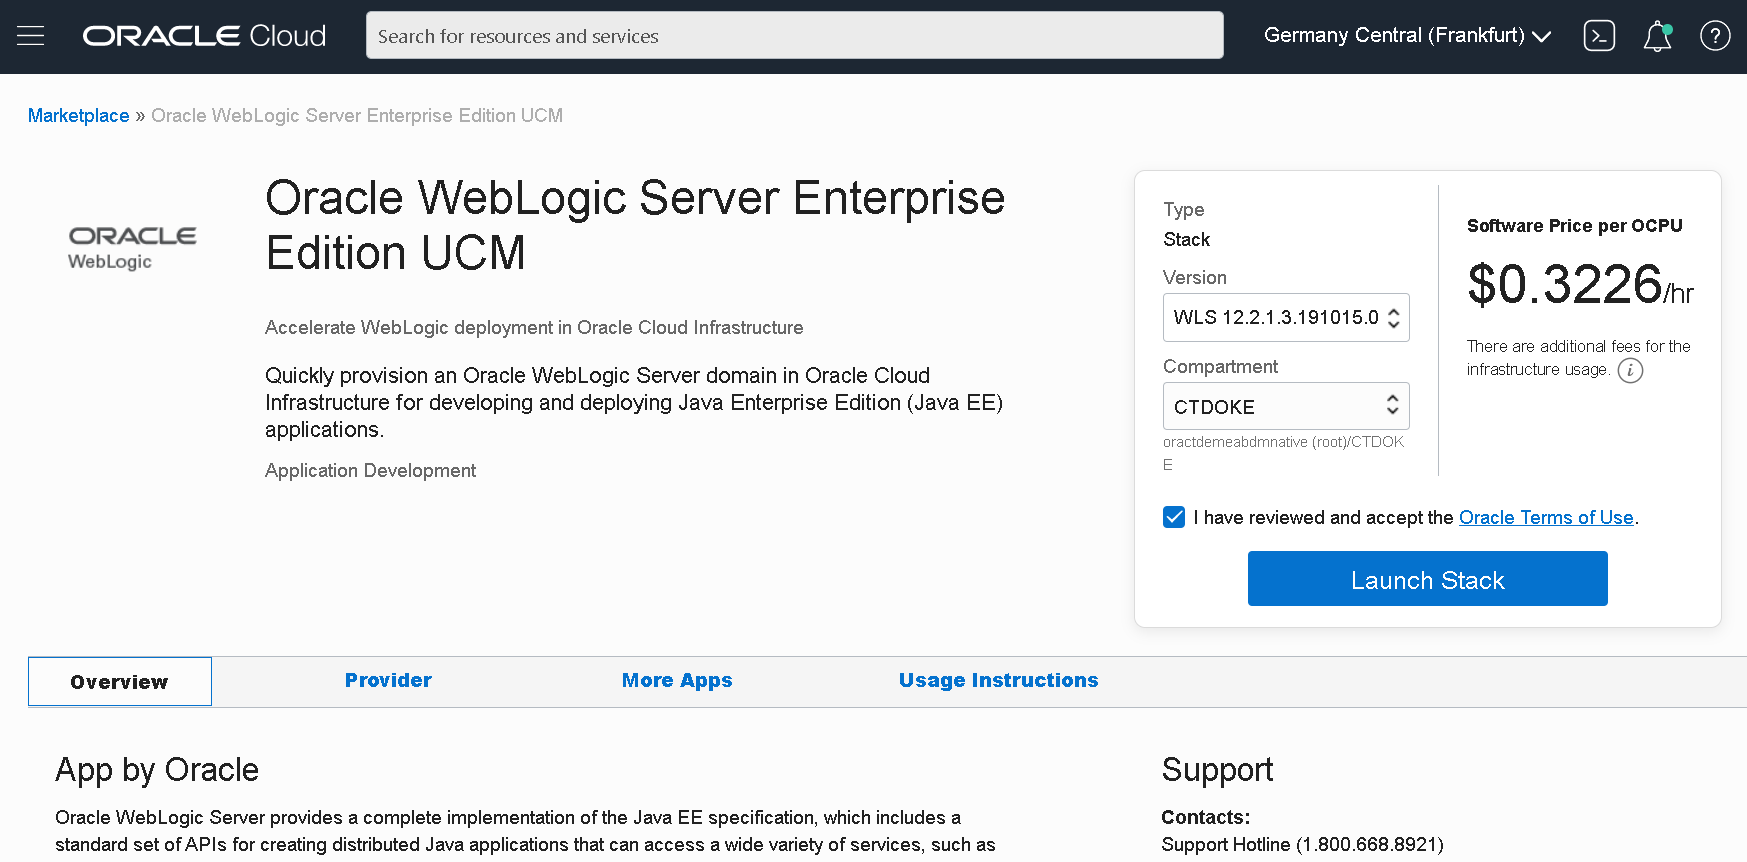
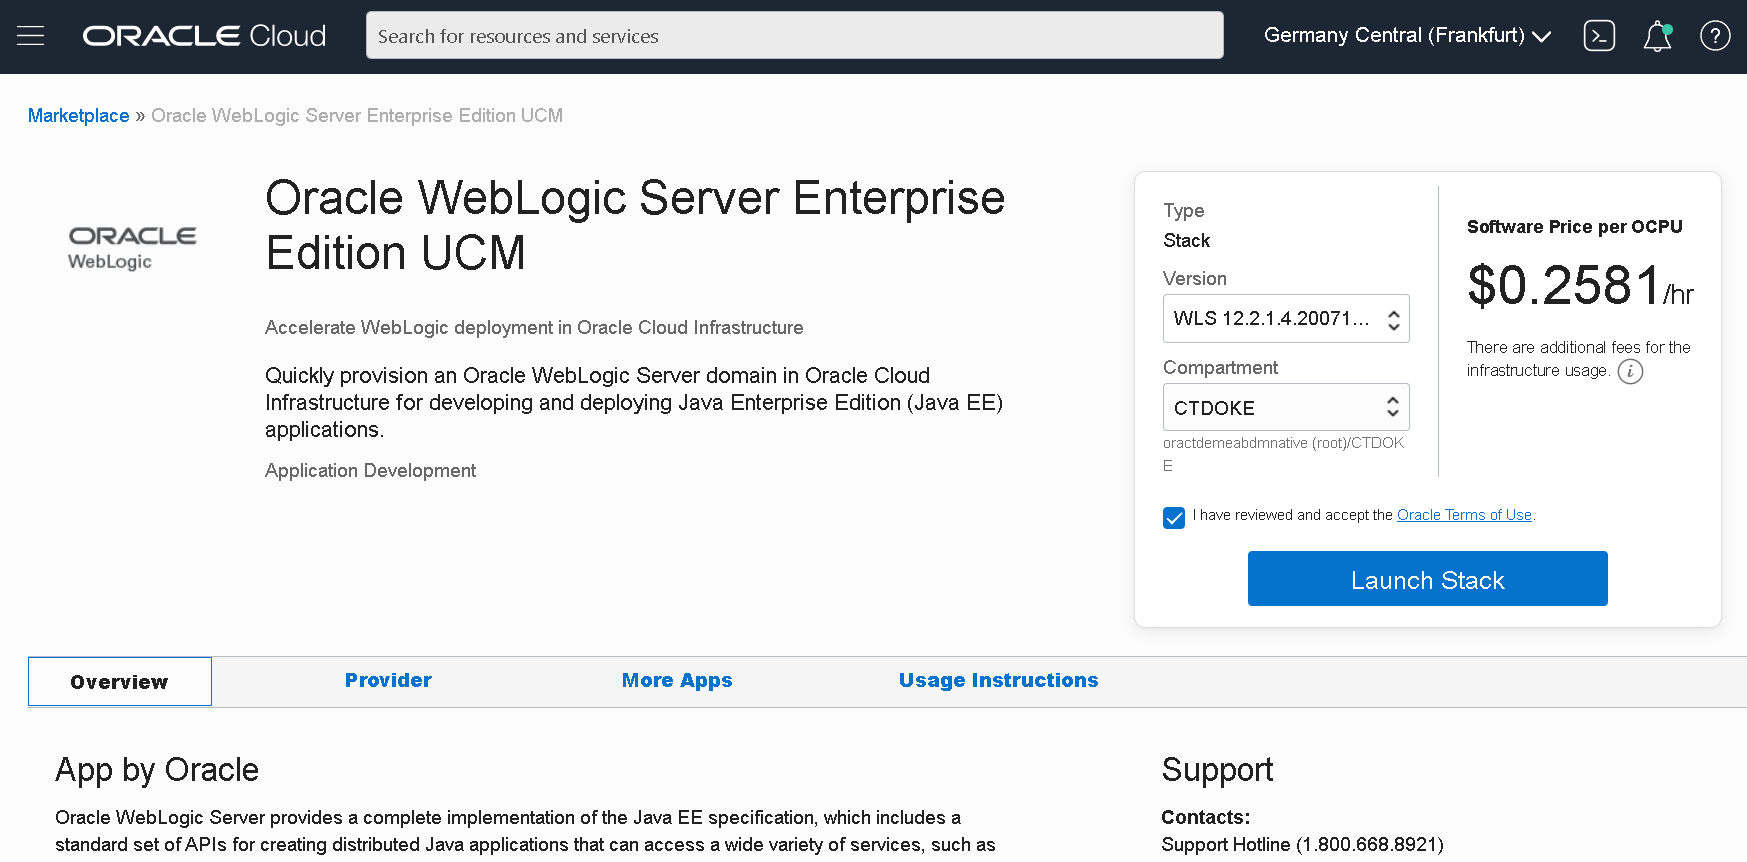
Update pics with new WLS version; update steps numbering; update pics with OCI policies and App Datasources; Remove AD placement

diff --git a/AppDev/wls/wlscnonjrf.md b/AppDev/wls/wlscnonjrf.md
@@ -97,8 +97,6 @@ This Hands on Lab will go through the process of creating a non JRF type of WebL
 
 - Continue setting up:
 
-  - **WebLogic Server Availability Domain**: choose one of the three ADs
-  
   - **WebLogic Server Node count**: *2* (we will create a WebLogic cluster with two nodes / managed servers)
   
   - **Admin user name**: *weblogic*
@@ -145,10 +143,15 @@ This Hands on Lab will go through the process of creating a non JRF type of WebL
 
 
 - Leave Identity Cloud Service Integration **unchecked** as default (no integration) 
-- Leave **Provision with JRF** also unchecked, as we will not associate this WLS instance with a database.
+- Leave **OCI Policies** checked, as a Dynamic Group containing the WebLogic Compute nodes will be created automatically alongside policies for letting them access the Secrets from Vault
 
-![](images/wlsnonjrf.png)
+![](images/wlscnonjrfwithenv/image153.png)
 
+
+- Leave **Provision with JRF** unchecked, as we will not associate this WLS instance with a database
+- Leave **Configure Application Datasource** also unchecked, as we will not use application datasources
+
+![](images/wlscnonjrfwithenv/image155.png)
 
 
 - Review the Stack configuration and Click **Create**:

diff --git a/AppDev/wls/wlscnonjrfprereq.md b/AppDev/wls/wlscnonjrfprereq.md
@@ -178,7 +178,7 @@ Click on the Secret name and take note of its **OCID**. We need to provide this 
 
 
 
-##  Step 4. Create ssh keys
+##  Step 3. Create ssh keys
 
 You need to generate a public and private ssh key pair. During provisioning using Marketplace, you have to specify the ssh public key that will be associated with each of the WebLogic VM nodes.
 
